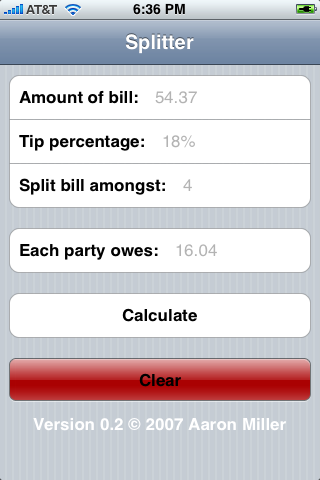
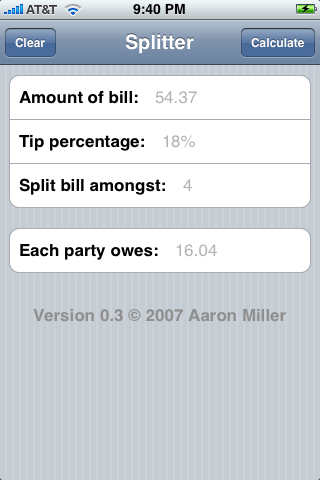
move calc & clear buttons to navBar

diff --git a/SplitsView.m b/SplitsView.m
@@ -27,8 +27,9 @@
 	[table reloadData];
 	
 	navBar = [[UINavigationBar alloc] initWithFrame:CGRectMake(rect.origin.x, rect.origin.y, rect.size.width,UI_TOP_NAVIGATION_BAR_HEIGHT)];
-//	[navBar showButtonsWithLeftTitle:@"Clear" rightTitle:@"Calculate"];
+	[navBar showButtonsWithLeftTitle:@"Clear" rightTitle:@"Calculate"];
 	[navBar enableAnimation];
+	[navBar setDelegate: self];
  	[navBar pushNavigationItem: [[UINavigationItem alloc] initWithTitle: @"Splitter"]];
 
 	keyboard = [[UIKeyboard alloc] initWithDefaultSize];
@@ -75,17 +76,24 @@
 - (void)tableRowSelected:(NSNotification*)notification;
 {
 	NSLog(@"selected row %d", [table selectedRow]);
-	switch([table selectedRow])
+	//note: grouping seems to insert empty rows, adjust indices accordingly to trigger selectedRow
+}
+
+- (void)navigationBar:(UINavigationBar*)navBar buttonClicked:(int)button 
+{
+	switch (button) 
 	{
-		case 7: //calculate button
+		case 0:
 		{
+			NSLog(@"left");
 			float result = ([[billCell value] floatValue] * (1 + ([[tipCell value] floatValue]/100.0))) / [[splitCell value] floatValue];
 			[resultCell setValue:[NSString stringWithFormat:@"%.2f", result]];
 			[table setKeyboardVisible:NO];
 			break;
 		}
-		case 9: //clear all
+		case 1:
 		{
+			NSLog(@"right");
 			[billCell setValue:@""]; [billCell setPlaceHolderValue:@""];
 			[tipCell setValue:@""]; [tipCell setPlaceHolderValue:@""];
 			[splitCell setValue:@""]; [splitCell setPlaceHolderValue:@""];
@@ -93,18 +101,13 @@
 			[table setKeyboardVisible:NO];
 			break;
 		}
-		default:
-		{
-			[table setKeyboardVisible:NO];
-		}
-
 	}
 }
 
 // ---------------Datasource Methods---------------
 - (int)numberOfGroupsInPreferencesTable:(UIPreferencesTable *)table
 {
-	return 4;
+	return 3;
 }
 
 - (int)preferencesTable:(UIPreferencesTable *)table numberOfRowsInGroup:(int)group
@@ -114,7 +117,6 @@
 		case 0: return 3;
 		case 1: return 1;
 		case 2: return 1;
-		case 3: return 2;
 	}
 }
 
@@ -142,35 +144,14 @@
 	}
 	else if (group == 2) 
 	{
-		UIPreferencesTableCell *cell = [[UIPreferencesTableCell alloc] init];
-		[cell setTitle:@"Calculate"];
-		[cell setAlignment:2];
-		return [cell autorelease];
-	}
-	else if (group == 3) 
-	{
-		switch (row)
 		{
-			case 0:
-			{
-				UIPreferencesDeleteTableCell *cell = [[UIPreferencesDeleteTableCell alloc] initWithFrame:CGRectMake(0, 0, 320, 45)];
-				[cell setTitle:@"Clear"];
-				[cell setAlignment:2];
-				return [cell autorelease];
-			}
-			case 1:
-			{
-//				NSString *version = [NSString stringWithFormat:@"Version 0.2 %C 2007 Aaron Miller", 0xA9];
-				NSString *version = [NSString stringWithFormat:@""];
-				[versionCell setTitle:version];
-				[versionCell setAlignment:2];
-				CGColorSpaceRef textColor = CGColorSpaceCreateDeviceRGB();
-				float white[4] = {1.0, 1.0, 1.0, 1.0};
-				[[versionCell titleTextLabel] setColor:CGColorCreate(textColor, white)];
-				[versionCell setDrawsBackground:NO];
-				[versionCell setEnabled:NO];
-				return versionCell;
-			}
+//			NSString *version = [NSString stringWithFormat:@"Version 0.3 %C 2007 Aaron Miller", 0xA9];
+			NSString *version = [NSString stringWithFormat:@""];
+			[versionCell setTitle:version];
+			[versionCell setAlignment:2];
+			[versionCell setDrawsBackground:NO];
+			[versionCell setEnabled:NO];
+			return versionCell;
 		}
 	}
 }
